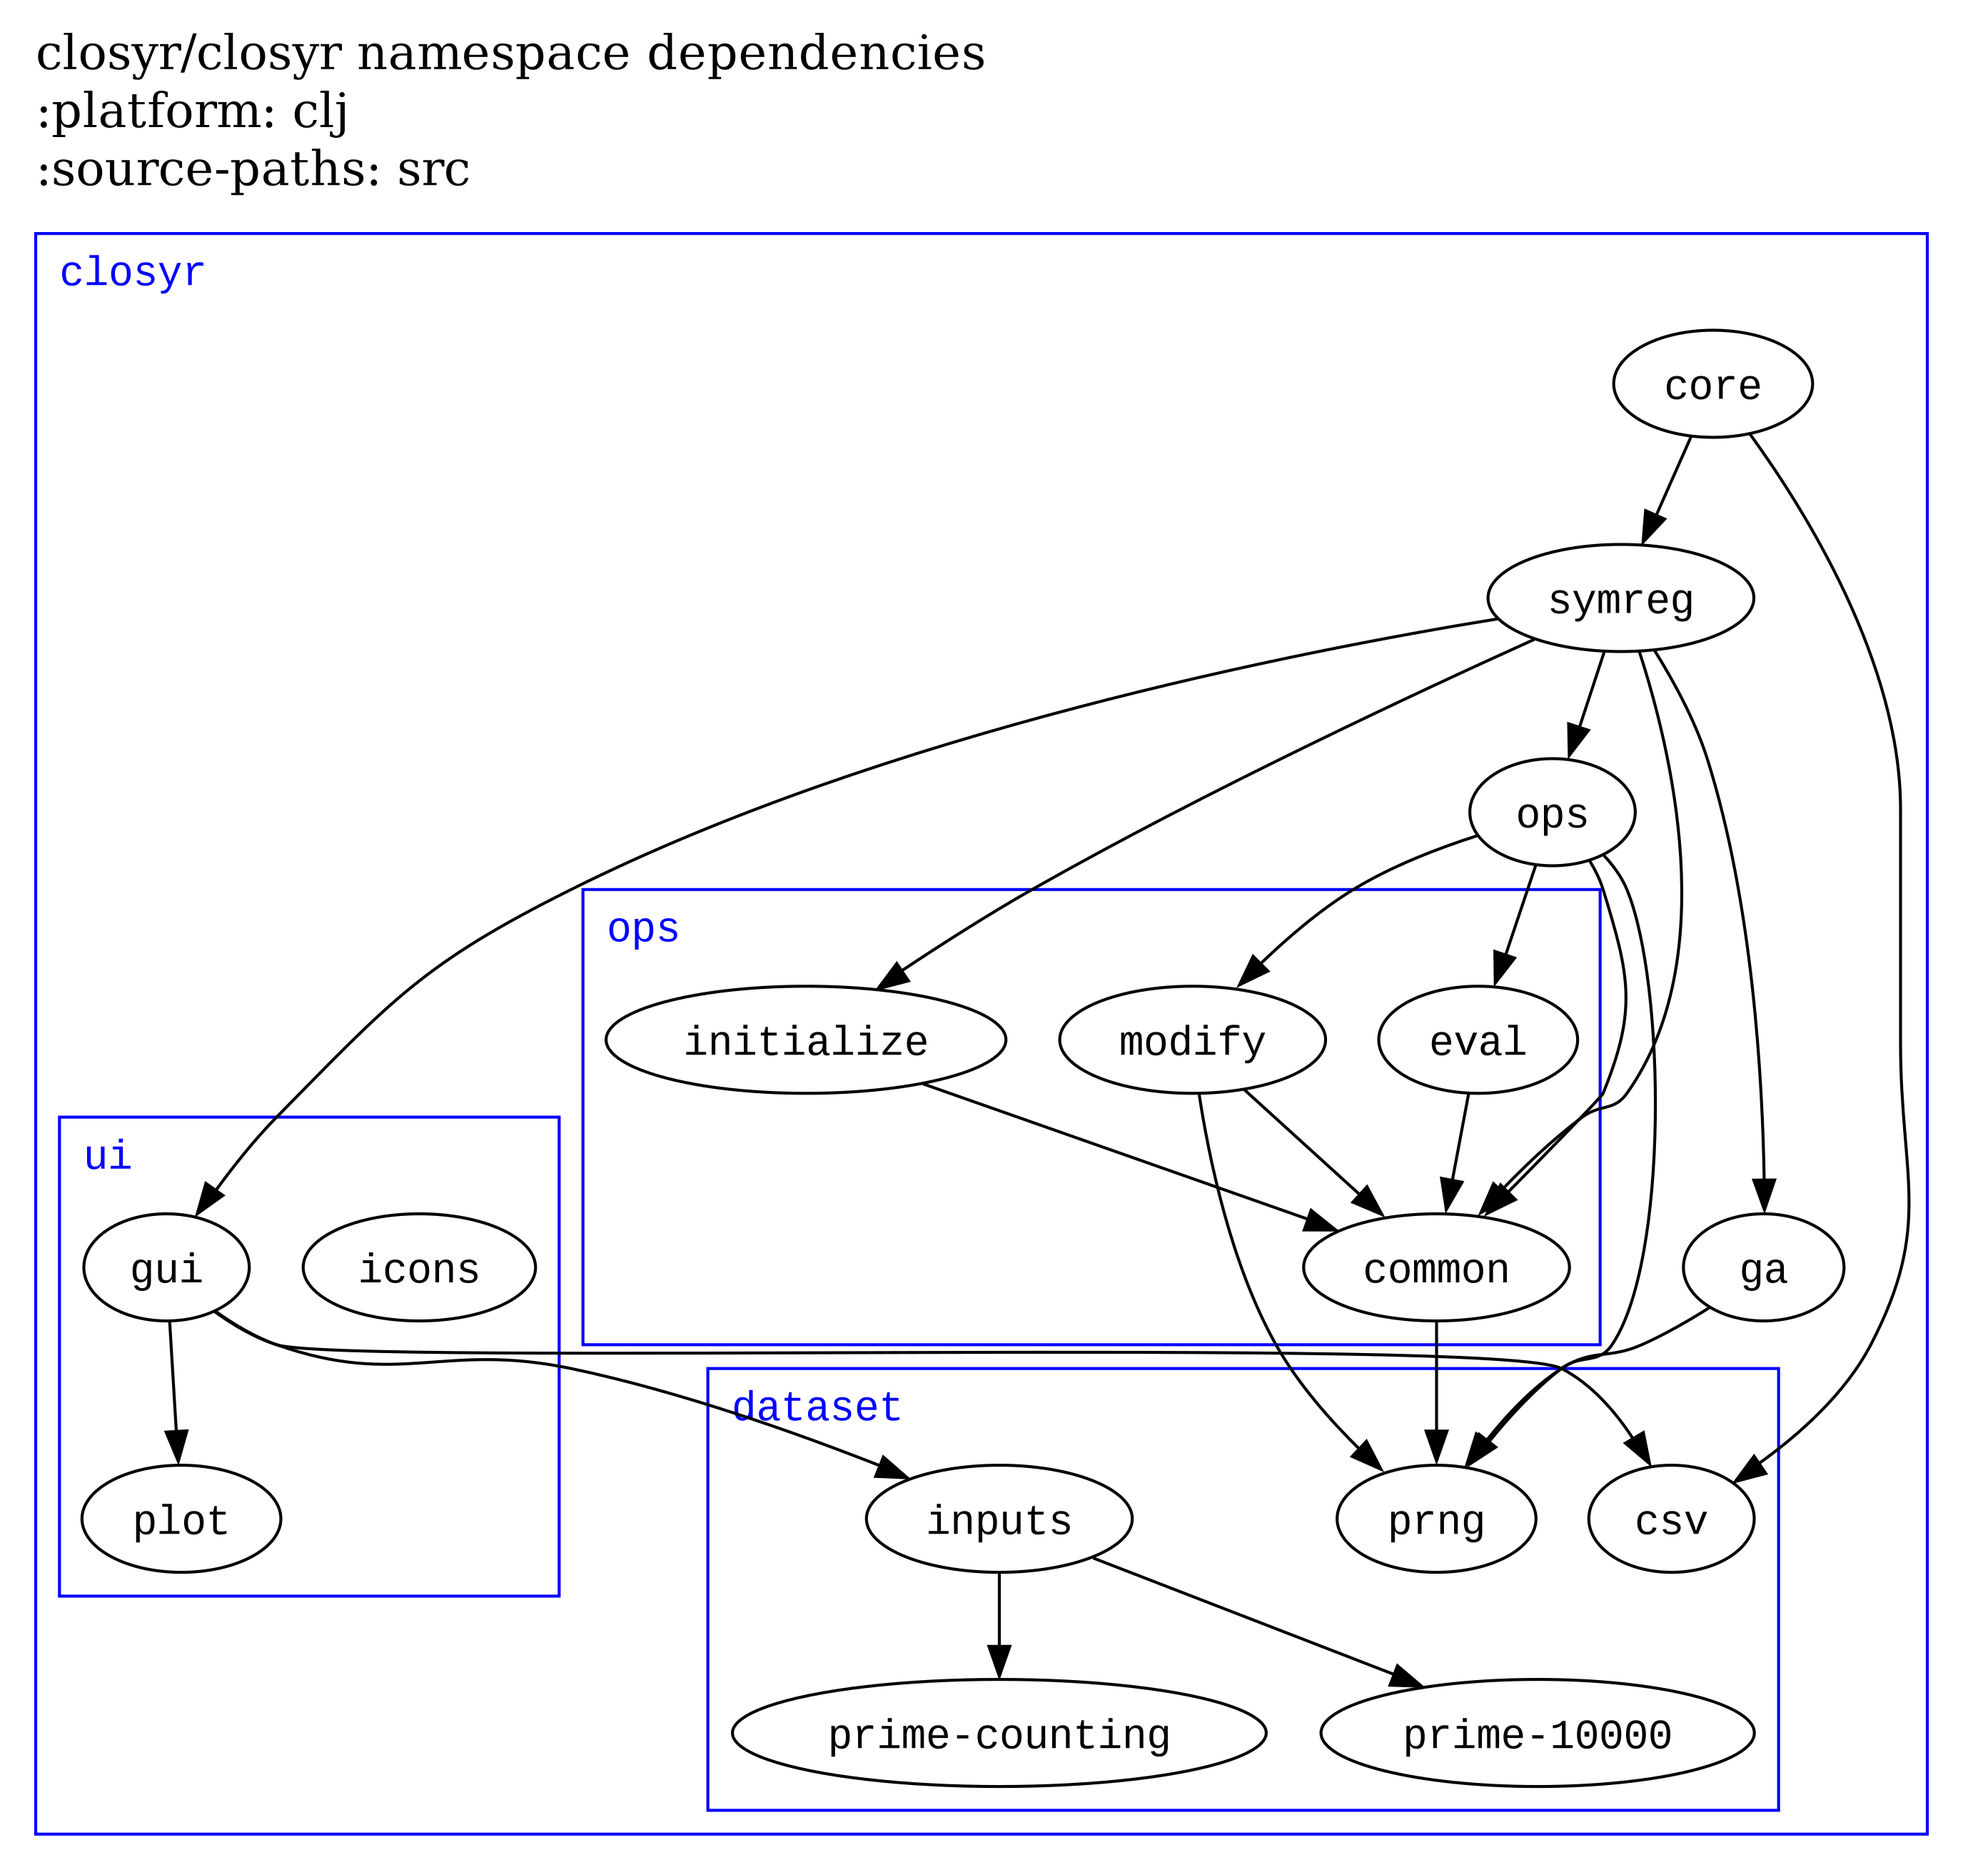
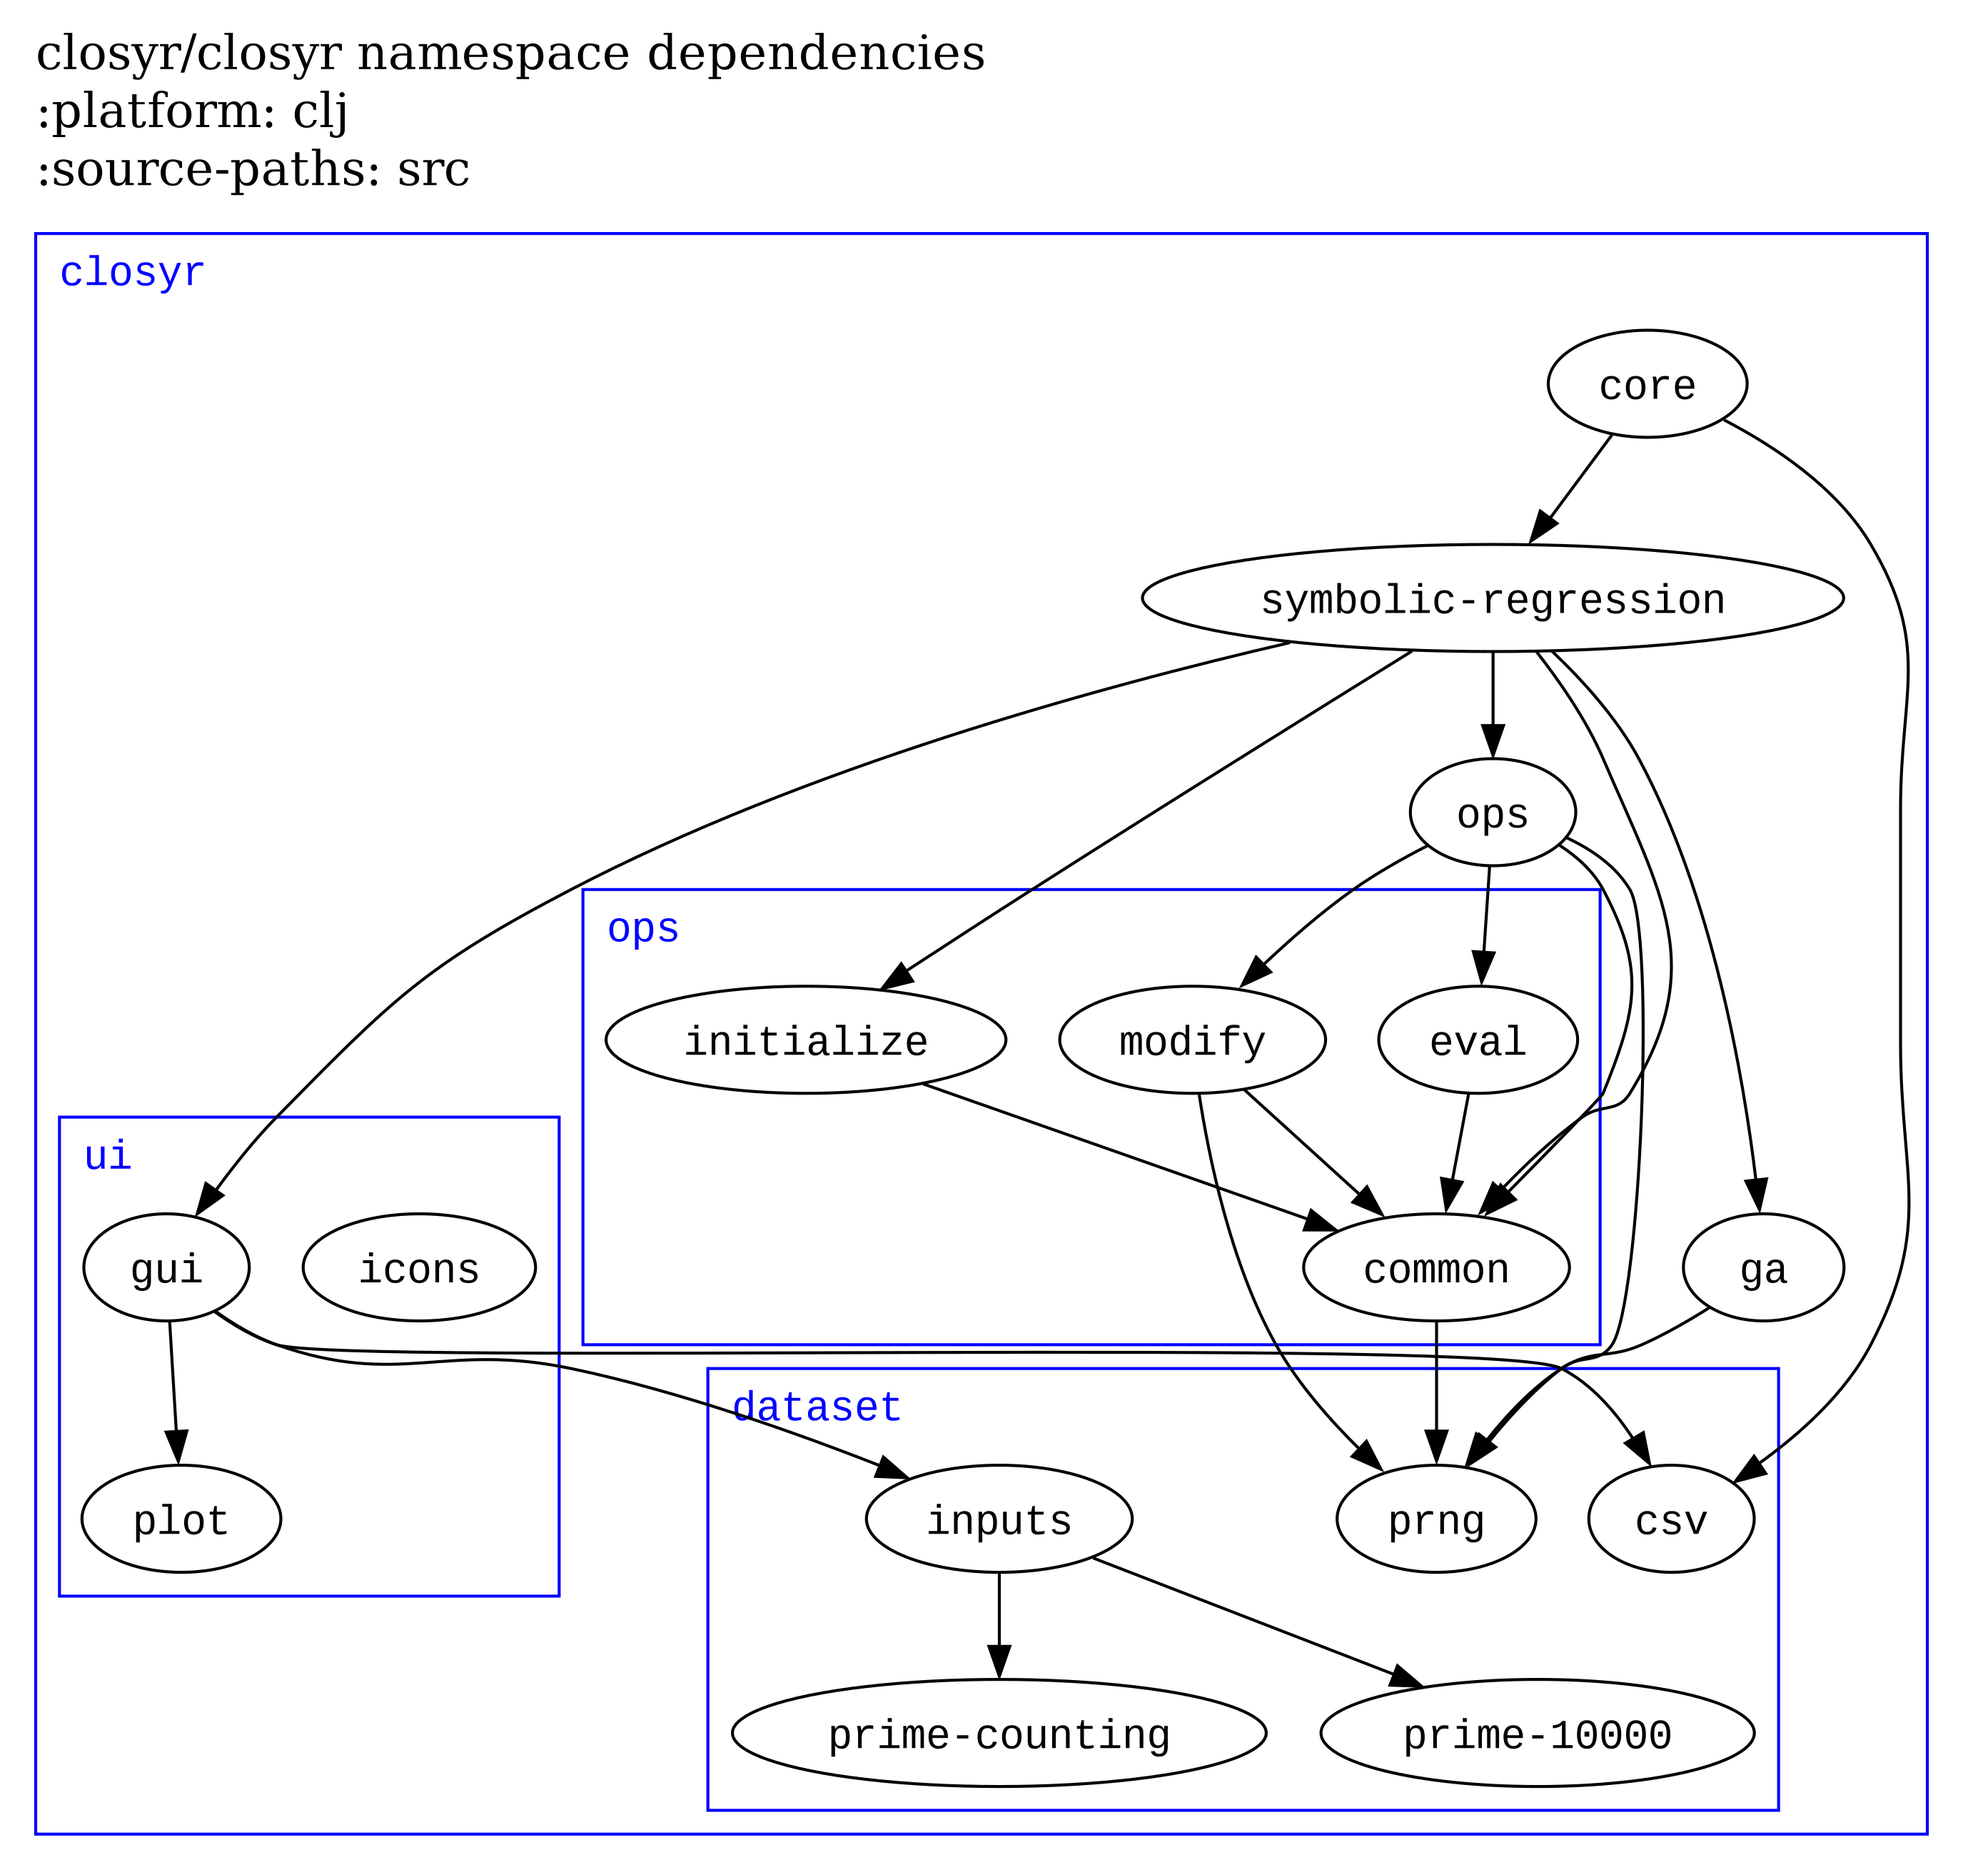
rename symreg ns

diff --git a/README.md b/README.md
@@ -59,7 +59,7 @@ Which is the same as:
 Requirements: Java, Leiningen (I will provide a deps file if enough interest)
 
 
-    (require '[closyr.symreg :as symreg]) 
+    (require '[closyr.symbolic-regression :as symreg]) 
     (symreg/run-app-with-gui)
 
 ### Build and run JAR
